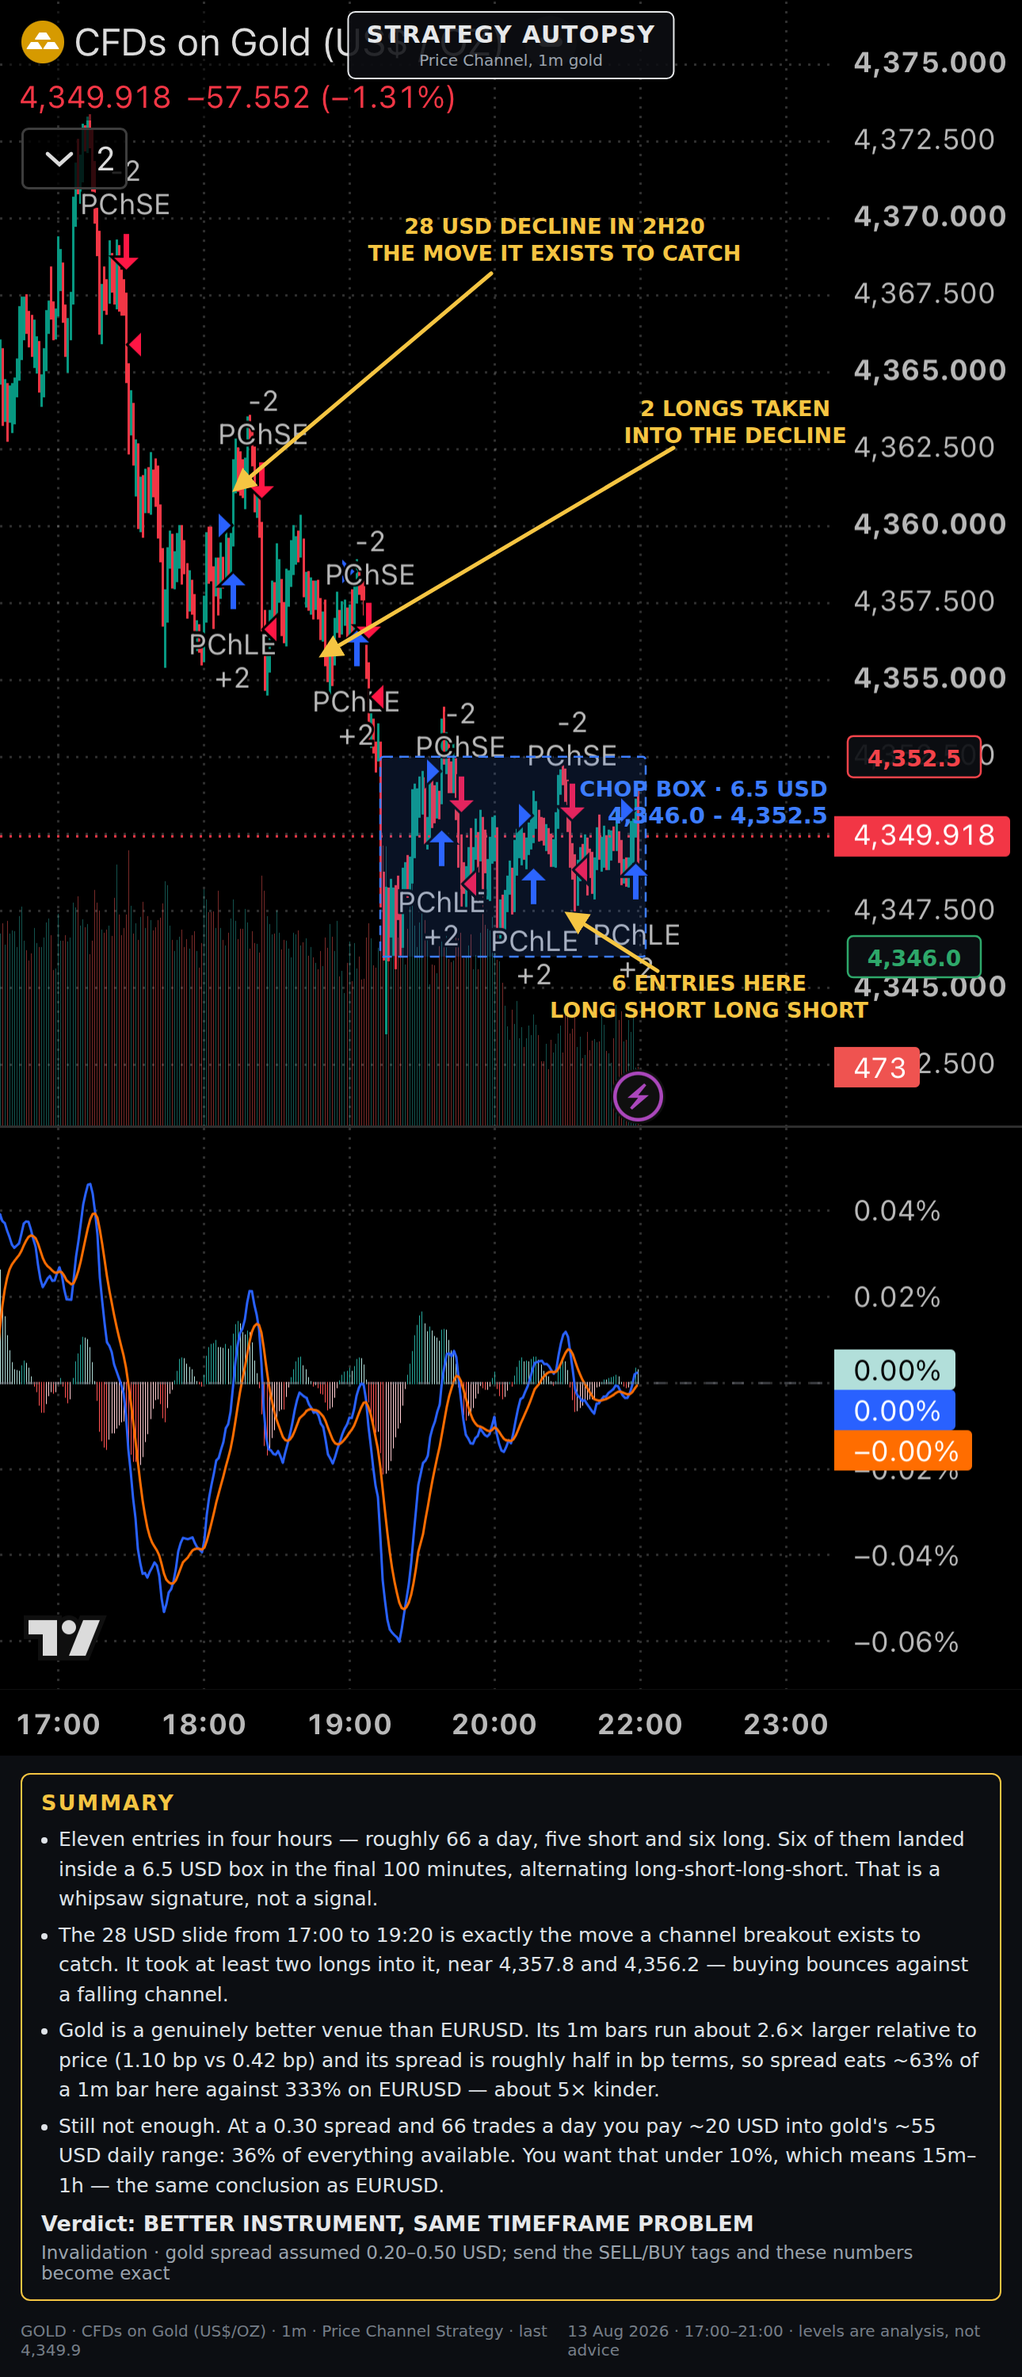
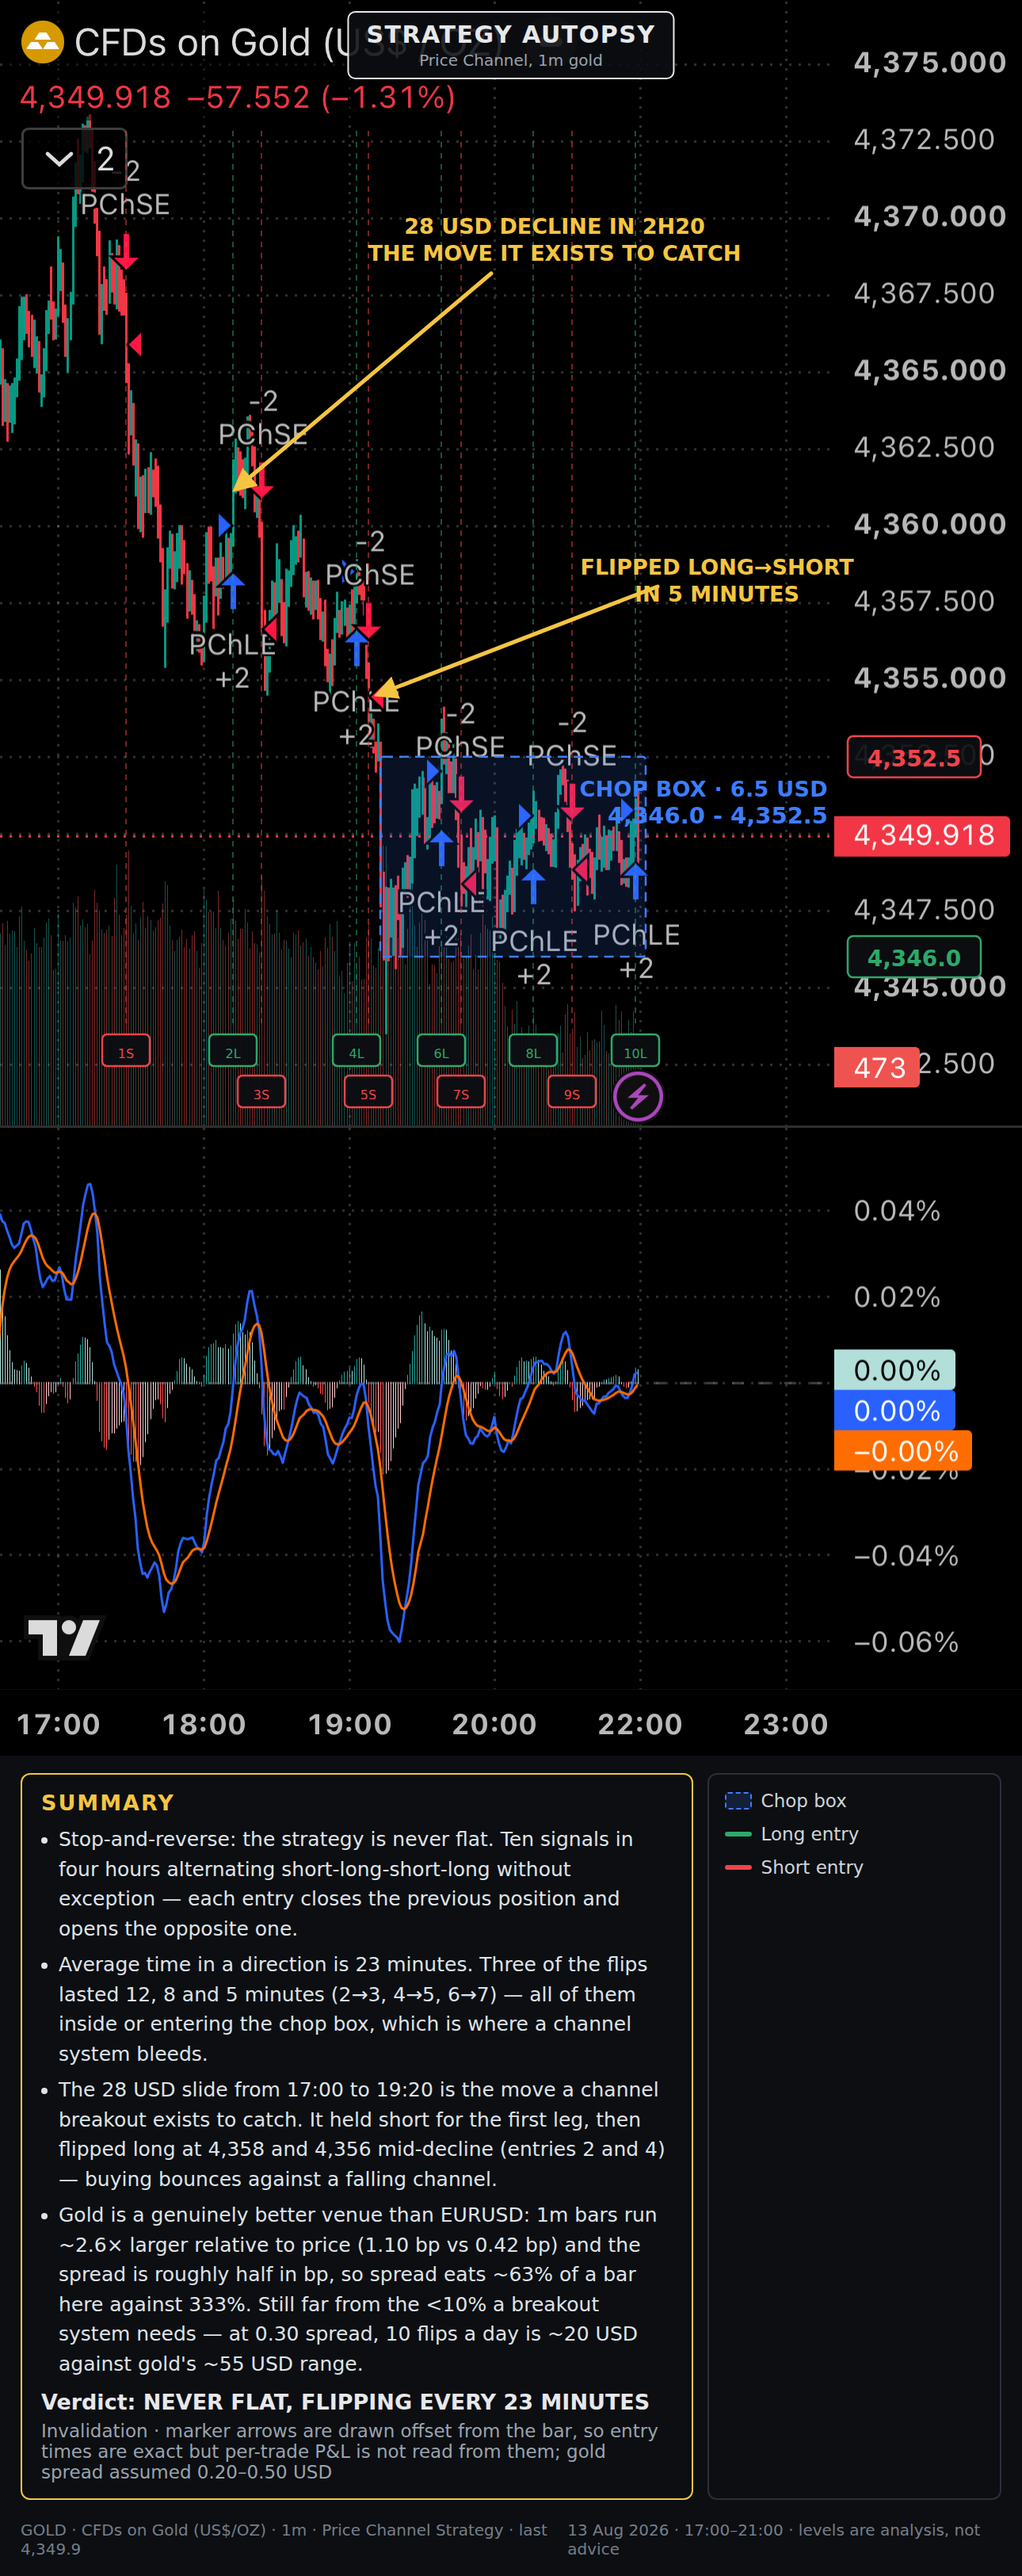
Mark strategy long and short entries on the chart
Recovers every entry from the screenshot by colour-matching TradingView's
marker palette, which is distinct from the candle colours, then draws a time
marker and a numbered side badge for each.

On the gold chart this shows the strategy is stop-and-reverse: ten signals in
four hours alternating short-long without exception, never flat, averaging a
reversal every 23 minutes with three flips under 12 minutes.

Records in the skill that marker height is a drawing offset, not the fill
price -- reading P&L off it makes every trade look like a winner.

Claude-Session: https://claude.ai/code/session_01VuvcmiNVFRyghG9KfyGKe8

diff --git a/tools/chartplan/render.py b/tools/chartplan/render.py
@@ -151,6 +151,28 @@ def build_svg(plan, geo, scale, crop):
             f'opacity="0.95"/>'
         )
 
+    # --- strategy entries: a time marker plus a numbered side badge ---------
+    ent = plan.get("entries")
+    if ent:
+        top, bot = plan.get("entry_line_y", [340, 1466])
+        rows = plan.get("entry_badge_y", [1500, 1552])
+        for e in ent:
+            colour = SUPPORT if e["side"] == "long" else RESISTANCE
+            x = e["x"]
+            o.append(
+                f'<line x1="{x}" y1="{top}" x2="{x}" y2="{bot}" stroke="{colour}" '
+                f'stroke-width="2" stroke-dasharray="7 7" opacity="0.5"/>'
+            )
+            by = rows[e.get("row", 0)]
+            o.append(
+                f'<rect x="{x - 30}" y="{by - 20}" width="60" height="40" rx="6" '
+                f'fill="{BG}" fill-opacity="0.95" stroke="{colour}" stroke-width="2.5"/>'
+            )
+            o.append(
+                f'<text x="{x}" y="{by + 10}" text-anchor="middle" class="ent" '
+                f'fill="{colour}">{e["n"]}{"L" if e["side"] == "long" else "S"}</text>'
+            )
+
     # --- callouts: a text label with a leader line to a point ---------------
     for c in plan.get("callouts", []):
         colour = c.get("colour", ACCENT)
@@ -199,6 +221,9 @@ def build_html(plan, geo, scale):
     if "note" in kinds:
         legend.append((f'<span class="sw box" style="border-color:{ACCENT}"></span>',
                        plan.get("note_legend", "Thin tape")))
+    if plan.get("entries"):
+        legend.append((f'<span class="sw" style="background:{SUPPORT}"></span>', "Long entry"))
+        legend.append((f'<span class="sw" style="background:{RESISTANCE}"></span>', "Short entry"))
     for extra in plan.get("legend_extra", []):
         legend.append((f'<span class="sw" style="background:{ACCENT}"></span>', extra))
     legend_html = "".join(

diff --git a/.claude/skills/trade-plan-chart/SKILL.md b/.claude/skills/trade-plan-chart/SKILL.md
@@ -86,7 +86,22 @@ leader line via `from_x/from_y/to_x/to_y`.
 
 The path is a polyline of `{x, price}` from the last bar into the empty space on
 the right. Make it say something: where the pullback lands, where the first
-target is, where it stalls.
+target is, where it stalls. Omit it entirely when a forecast would be noise --
+a 1m chart, or an autopsy of what a strategy already did. The legend keys only
+what the plan actually draws, so leaving it out is clean.
+
+### Charts with a strategy running on them
+
+TradingView draws entry markers in exact colours -- blue `(56, 96, 246)`, red
+`(234, 57, 75)` -- distinct from candle red `(239, 83, 80)`. Match within a
+tolerance of ~14 and cluster the blobs to recover every entry, its side and its
+x position; the big arrow (~27x43 px) carries the text label, the small
+triangle (~14x27) is its pair. Feed them to the `entries` list and the renderer
+draws a time marker and a numbered side badge for each.
+
+The arrow's *y* position is a drawing offset -- below the bar for longs, above
+for shorts -- not the fill price. Entry times are exact; do not infer per-trade
+P&L from marker height, or every trade reads as a winner.
 
 ### 5. Render, then look at it
 
